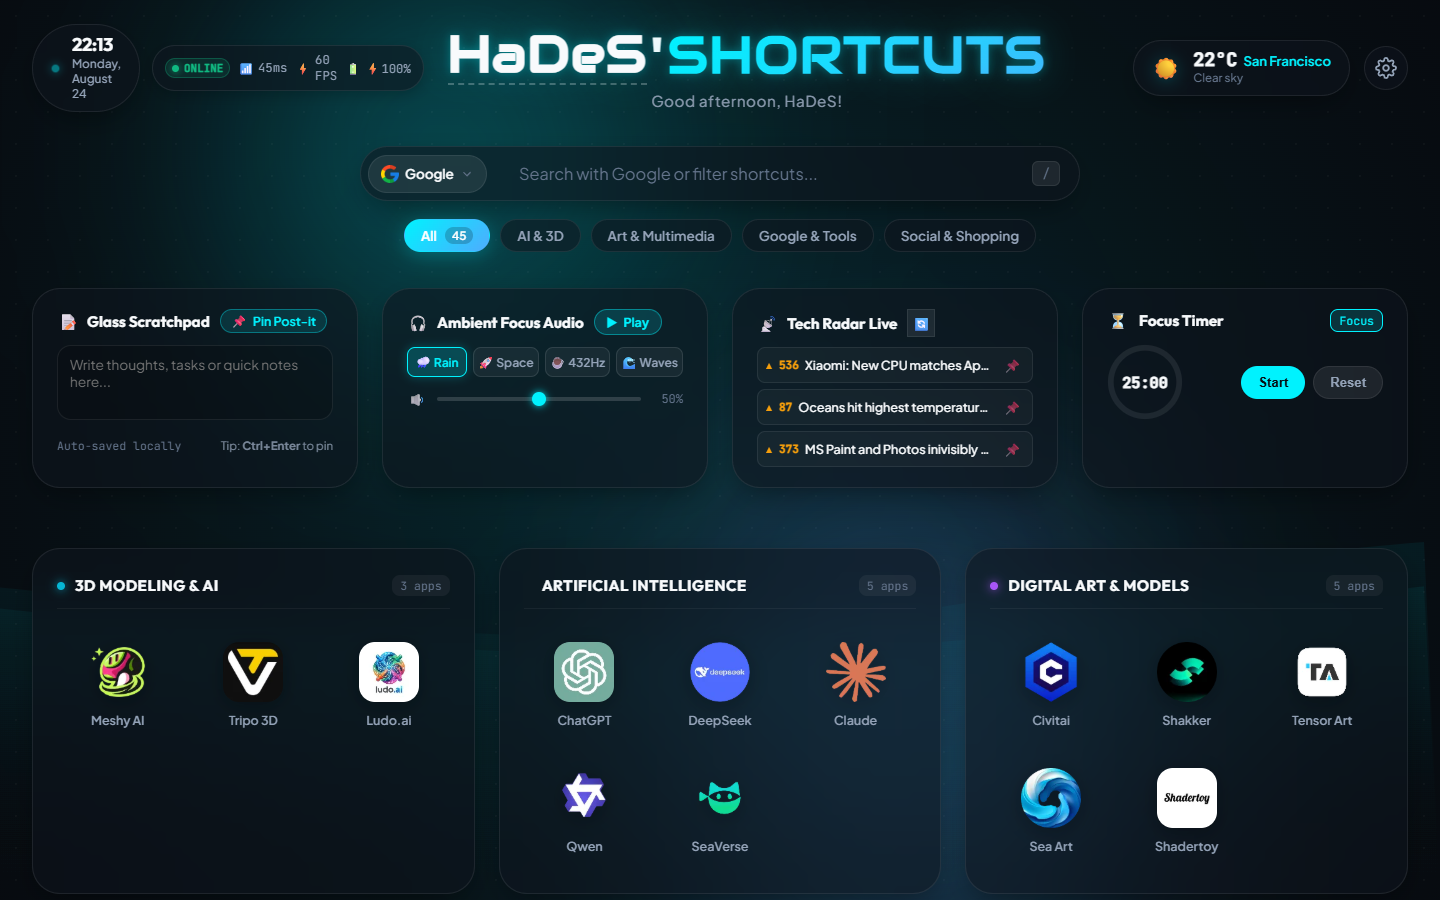
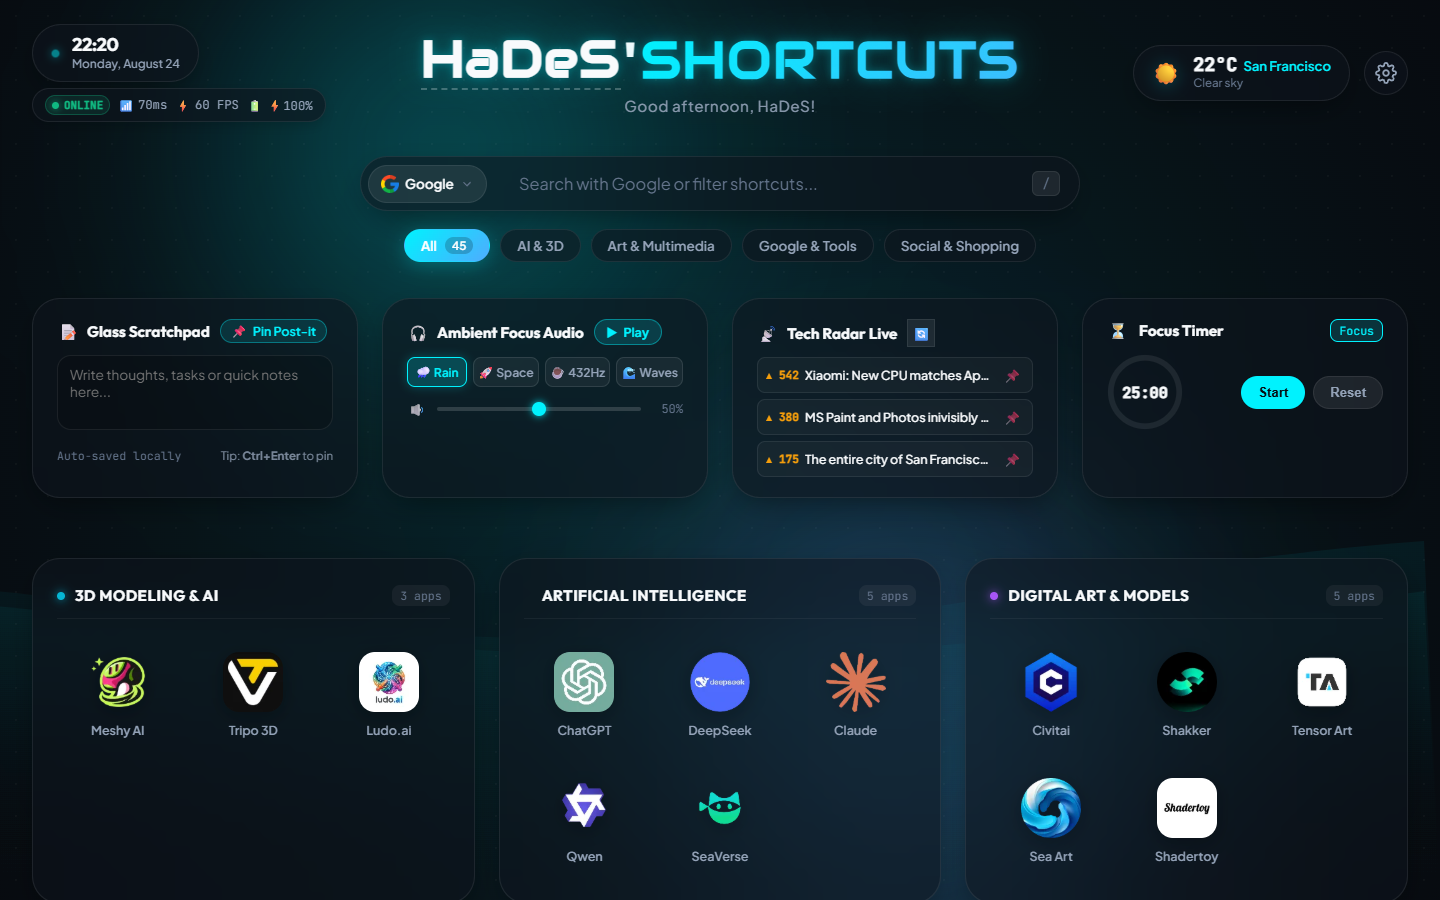
style(header): restore clock widget to original top position with stacked telemetry capsule underneath

diff --git a/style.css b/style.css
@@ -211,9 +211,10 @@ body {
 
 /* Clock & Left Widgets Container */
 .nav-widgets-left {
-    display: inline-flex;
-    align-items: center;
-    gap: 12px;
+    display: flex;
+    flex-direction: column;
+    align-items: flex-start;
+    gap: 6px;
     justify-self: start;
 }
 
@@ -4147,20 +4148,20 @@ input:checked + .slider:before {
 .telemetry-capsule {
     display: inline-flex;
     align-items: center;
-    gap: 12px;
+    gap: 10px;
     background: var(--card-bg);
     backdrop-filter: blur(var(--glass-blur));
     -webkit-backdrop-filter: blur(var(--glass-blur));
     border: 1px solid var(--card-border);
-    padding: 6px 14px;
+    padding: 4px 12px;
     border-radius: var(--radius-pill);
     font-family: var(--font-mono);
-    font-size: 0.76rem;
+    font-size: 0.72rem;
     color: var(--text-secondary);
     cursor: pointer;
     transition: var(--transition-fast);
     user-select: none;
-    box-shadow: 0 4px 14px rgba(0, 0, 0, 0.2);
+    box-shadow: 0 4px 12px rgba(0, 0, 0, 0.15);
 }
 
 .telemetry-capsule:hover {
